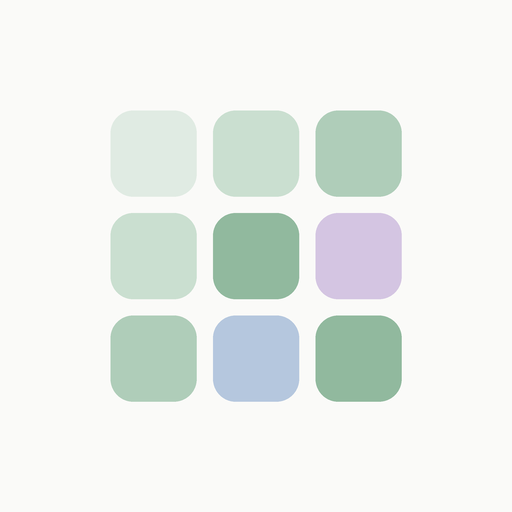
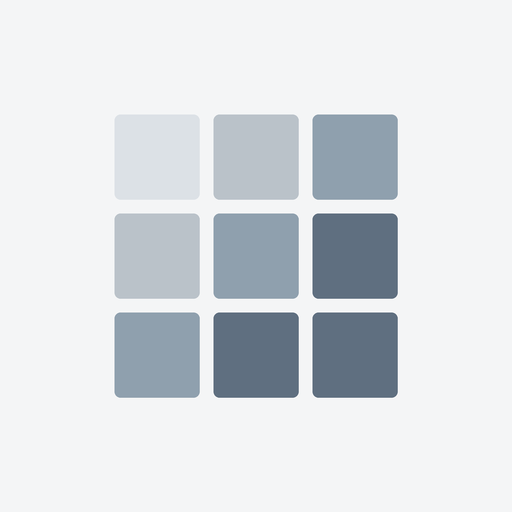
배경을 중립 블루그레이 톤으로, 홈 화면 아이콘 색상 교체
- 누런 미색 배경·카드·선 색을 차가운 중립 회색으로 변경
- 아이콘을 블루그레이~슬레이트 3x3 그리드로 다시 제작

Claude-Session: https://claude.ai/code/session_01V9ySm3eZLLnrgL7R8N6CZU

Changed region(s): [[0.1875, 0.1875, 0.8125, 0.8125]]

diff --git a/style.css b/style.css
@@ -2,7 +2,7 @@
 :root{
   --u-life:#8FA0AE;--u-study:#5F6F80;--u-accent:#BAC2C9;--u-heat:var(--u-life);
   --fs:13px;--fw:300;--ff:"Pretendard Variable",Pretendard,-apple-system,BlinkMacSystemFont,system-ui,sans-serif;
-  --bg:#F2F1ED;--card:#FAF9F6;--line:#DEDDD7;--faint:#E9E8E3;--text:#3F4853;--sub:#8A9099;--h0:#E5E4DF;--warn-ink:#9A6B5E;
+  --bg:#F4F5F6;--card:#FCFCFD;--line:#DFE2E6;--faint:#EAEDEF;--text:#3F4853;--sub:#89919A;--h0:#E5E8EB;--warn-ink:#9A6B5E;
   --life:var(--u-life);--study:var(--u-study);--accent:var(--u-accent);--heat:var(--u-heat);
   --life-ink:color-mix(in srgb,var(--u-life) 50%,var(--text));
   --study-ink:color-mix(in srgb,var(--u-study) 50%,var(--text));
@@ -234,8 +234,8 @@ input[type=range]::-webkit-slider-thumb{-webkit-appearance:none;width:1.3rem;hei
 
 /* ===== A4 report ===== */
 #print{display:none}
-#print.show{display:block;position:fixed;inset:0;z-index:40;overflow:auto;background:#E8E7E3;padding:calc(env(safe-area-inset-top) + 56px) 12px 24px;-webkit-overflow-scrolling:touch}
-.pbar-top{position:fixed;top:0;left:0;right:0;z-index:41;display:flex;justify-content:flex-end;gap:8px;padding:calc(env(safe-area-inset-top) + 10px) 12px 10px;background:rgba(232,231,227,.9);-webkit-backdrop-filter:blur(10px);backdrop-filter:blur(10px)}
+#print.show{display:block;position:fixed;inset:0;z-index:40;overflow:auto;background:#E6E9EC;padding:calc(env(safe-area-inset-top) + 56px) 12px 24px;-webkit-overflow-scrolling:touch}
+.pbar-top{position:fixed;top:0;left:0;right:0;z-index:41;display:flex;justify-content:flex-end;gap:8px;padding:calc(env(safe-area-inset-top) + 10px) 12px 10px;background:rgba(230,233,236,.9);-webkit-backdrop-filter:blur(10px);backdrop-filter:blur(10px)}
 .pbar-top .btn{background:#fff;color:#4A4A48;border-color:#DDD}
 .pbar-top .btn.pri{background:var(--u-accent)}
 .page{width:210mm;min-height:297mm;margin:0 auto;padding:12mm;background:#fff;color:#4A4A48;font-size:8.5pt;line-height:1.45;box-shadow:0 2px 12px rgba(0,0,0,.08)}
@@ -244,17 +244,17 @@ input[type=range]::-webkit-slider-thumb{-webkit-appearance:none;width:1.3rem;hei
 .rp-h h1{font-size:15pt}
 .rp-h span{font-size:7.5pt;color:#999}
 .rp-t{display:grid;grid-template-columns:repeat(4,1fr);gap:3mm;margin-bottom:6mm}
-.rp-t div{border:.2mm solid #E4E3DE;border-radius:.5mm;padding:2.5mm 3mm;font-size:7pt;color:#999}
+.rp-t div{border:.2mm solid #E2E5E8;border-radius:.5mm;padding:2.5mm 3mm;font-size:7pt;color:#999}
 .rp-t b{display:block;font-size:13pt;font-weight:calc(var(--fw) - 100);color:#4A4A48}
 .rp h4{font-size:8pt;font-weight:var(--fw);color:#999;margin:5mm 0 2mm}
 .hg{width:100%;border-collapse:collapse;table-layout:fixed}
-.hg th,.hg td{font-weight:var(--fw);font-size:6pt;text-align:center;padding:.7mm 0;border-bottom:.15mm solid #EFEEEA}
+.hg th,.hg td{font-weight:var(--fw);font-size:6pt;text-align:center;padding:.7mm 0;border-bottom:.15mm solid #ECEEF0}
 .hg th{color:#999;line-height:1.2}
 .hg th.sun{color:#A88A86}
 .hg td.nm,.hg th.nm{text-align:left;font-size:7.5pt;white-space:nowrap;overflow:hidden;text-overflow:ellipsis;padding-right:2mm}
 .hg td.rt{font-size:7pt}
 .hg .c{display:block;width:3.3mm;height:3.3mm;border-radius:.2mm;margin:0 auto}
-.hg .c.s{border:.2mm solid #DDDCD7}
+.hg .c.s{border:.2mm solid #D9DDE1}
 .hg .c.life{background:var(--u-life)}.hg .c.study{background:var(--u-study)}
 .hg td.mn{font-size:5.5pt;color:#888}
 .rp-s{display:grid;grid-template-columns:1fr 1fr;gap:0 8mm}

diff --git a/index.html b/index.html
@@ -7,12 +7,12 @@
 <meta name="mobile-web-app-capable" content="yes">
 <meta name="apple-mobile-web-app-status-bar-style" content="default">
 <meta name="apple-mobile-web-app-title" content="트래커">
-<meta name="theme-color" id="tc" content="#F2F1ED">
+<meta name="theme-color" id="tc" content="#F4F5F6">
 <script>try{var p=(JSON.parse(localStorage.getItem('ht.data'))||{}).prefs||{},m=p.mode||'auto';document.documentElement.dataset.theme=m==='auto'?(matchMedia('(prefers-color-scheme: dark)').matches?'dark':'light'):m}catch(e){}</script>
 <title>습관 트래커</title>
 <link rel="manifest" href="manifest.webmanifest">
-<link rel="apple-touch-icon" href="icon-180.png">
-<link rel="icon" href="icon-180.png">
+<link rel="apple-touch-icon" href="icon-180.png?v=2">
+<link rel="icon" href="icon-180.png?v=2">
 <link rel="stylesheet" href="https://cdn.jsdelivr.net/gh/orioncactus/pretendard@v1.3.9/dist/web/variable/pretendardvariable-dynamic-subset.min.css">
 <link rel="stylesheet" href="style.css">
 </head>

diff --git a/sw.js b/sw.js
@@ -1,4 +1,4 @@
-const C = 'ht-v7';
+const C = 'ht-v8';
 const A = ['./', 'index.html', 'style.css', 'app.js', 'manifest.webmanifest', 'icon-180.png', 'icon-512.png'];
 self.addEventListener('install', e => { e.waitUntil(caches.open(C).then(c => c.addAll(A))); self.skipWaiting(); });
 self.addEventListener('activate', e => {
